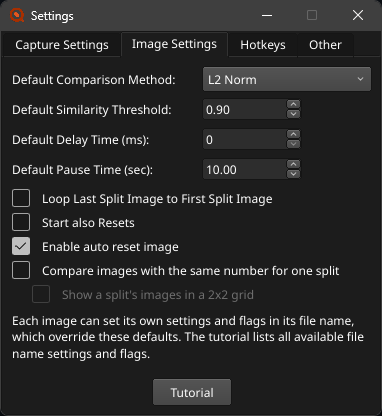
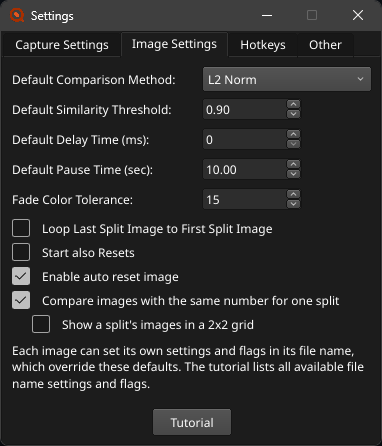
Document fade images and update the screenshots
- MANUAL: Fade images section, the {f} flag and ~ms~, Fade Color
  Tolerance, fade splits in the editor and the Live Tester, and
  the compare fade column
- Screenshots of fade splits and the Live Tester on a fade
- Retake the screenshots changed by monospace file names, the
  Compare list and the new setting

diff --git a/MANUAL.md b/MANUAL.md
@@ -8,6 +8,7 @@ Everything AutoSplit-rs does, to look things up. For setting it up the first tim
 - [Live Tester](#live-tester)
 - [Settings](#settings)
 - [Split image file names](#split-image-file-names)
+- [Fade images](#fade-images)
 - [Profiles](#profiles)
 - [Timers](#timers)
 - [Keyboard shortcuts](#keyboard-shortcuts)
@@ -72,7 +73,8 @@ The list shows each split's name over its file name, colored by what each part o
 ### Making the images
 
 - Grab saves the capture region for the selected split, with its mask, and selects the next split. The screenshot hotkey does the same while the window is open, so you can play through the category and press it at each split.
-- Use Screenshots... uses screenshot files instead, like the ones Take Screenshot saves. Pick one for the selected split, or several for the splits in order. Then press Save Selected or Save All.
+- On a [fade split](#fade-images), the button reads Grab* and saves the split image from the split's color instead of the capture, then selects the next split. It works without a capture device. The Capture Region is replaced by a note that the split needs no savestate or screen.
+- Use Screenshots... uses screenshot files instead, like the ones Take Screenshot saves. Pick one for the selected split, or several for the splits in order, skipping fade splits. Then press Save Selected or Save All. It's off while a fade split is selected.
 - Test opens the selected split's saved image in the [Live Tester](#live-tester).
 
 Saving asks before replacing split images, and before leaving older images of the same splits under other names, like after a threshold changed. Delete Old Images removes those, Keep Old Images keeps them. A green check mark over the Output Preview shows when images are saved. Screenshots that were in the split image folder move into its `base` folder, where they aren't read as split images.
@@ -81,7 +83,9 @@ The main window reads the split image folder again when Make Split Images closes
 
 ### Output Preview
 
-Until a split has an image, the Output Preview shows the capture with the split's mask, as Grab would save it. Click it, or the checkerboard button above it, to show what the mask removes as a checkerboard.
+Until a split has an image, the Output Preview shows the capture with the split's mask, as Grab would save it. Click it, or the checkerboard button above it, to show what the mask removes as a checkerboard. A fade split shows its color where its mask keeps the screen, or everywhere without a mask.
+
+![Make Split Images with a fade split selected: its color swatch in the split list, Grab* below the list, the Fade Split note in place of the Capture Region, and the Output Preview showing the color in the mask's shape](docs/make-split-images-fade.png)
 
 ### Generate Profile
 
@@ -117,7 +121,7 @@ Edit, next to the preset, edits it, and New starts a new preset for the same gam
   - A grayed-out name can't be inserted, like a fifth reset image. When you pick it, a red line above the buttons says why.
   - The window stays open. Saving the preset copies the masks and savestates of inserted splits into it.
 
-  ![Split Library: the ready-made splits listed on the left, with where the preset has them already, and EnterDeku picked on the right, its dummy and its split each with a screenshot, settings and file name, above Insert Above and Insert Below](docs/split-library.png)
+  ![Split Library: the ready-made splits listed on the left, with where the preset has them already, and KokiriSwordLeft picked on the right, its two images each with a screenshot, settings and file name, above Insert Above and Insert Below](docs/split-library.png)
 
 - Grabs and screenshots stay with their splits while you change them. Grab itself is hidden while editing, since a split's file name and mask aren't settled until the preset is saved.
 
@@ -126,12 +130,18 @@ Each split has:
 | Field | What it is |
 | --- | --- |
 | Type | Split, Start Image or Reset Image. Start and reset images are named `start_auto_splitter` and `reset`, so their name can't be changed. A preset can have up to 4 of each. |
-| Name | The part of the file name after the number. It can't contain `reset` or `start_auto_splitter`, or the characters `#@{}()[]^`, which file names use for settings. |
-| Mask | A PNG that's opaque where the screen is compared. |
+| Compare | Screenshot compares the screen with a grab or screenshot. Fade waits for the screen to fade to a color, see [Fade images](#fade-images). |
+| Name | The part of the file name after the number. It can't contain `reset` or `start_auto_splitter`, or the characters `#@{}()[]^~`, which file names use for settings. |
+| Color, Fade ms | For a fade split: the color the screen fades to, as a hex code like `#000000`, and about how long the fade takes in milliseconds. |
+| Mask | A PNG that's opaque where the screen is compared. A fade split doesn't need one, and Clear removes it. |
 | Threshold, Delay, Pause | Unticked, they use the profile's default and stay out of the file name. Changing a value ticks it. |
 | Dummy, Split below threshold | The `{d}` and `{b}` flags. |
 | Same split as the one above | Compares the split for the same split as the one above it, so either one matching splits. Up to 4 splits can be together. See [Several images for one split](#several-images-for-one-split). |
-| Savestate and instructions | For Copy Savestates and Savestate Instructions. |
+| Savestate and instructions | For Copy Savestates and Savestate Instructions. A fade split doesn't have them, since its image comes from its color. |
+
+Switching Compare to Fade ticks Threshold and sets it to 0.995, and switching back gives the split its old threshold, color and fade time again.
+
+![Make Split Images while editing a fade split: Compare set to Fade, the Color field with its swatch and Fade ms, the Mask with Clear, and the threshold at 0.995](docs/make-split-images-fade-editing.png)
 
 The Output Preview has two more buttons while editing:
 
@@ -173,6 +183,7 @@ The right side keeps the frames that would have made the image act in a run:
 - With `{b}`, it keeps the frame that reached the threshold, the frame that dropped back below it, and the frame after the delay if there is one.
 - A dummy image (`{d}`) acts right away, without its delay.
 - A reset image keeps the frame that reached the threshold.
+- A [fade image](#fade-images) keeps the frame where the fade reached the threshold. The line next to Start Over says when the screen reached the threshold without fading there, like after a cut, so you can tell a cut from a missed fade.
 
 `<` and `>` above the frames go through them. Start Over clears them and Highest. The tester takes one image at a time, so the images of a [grouped split](#several-images-for-one-split) are tested one by one.
 
@@ -195,7 +206,7 @@ File > Settings has four tabs.
 
 The defaults for split images whose file names don't set their own.
 
-![The Image Settings tab with the default comparison method, threshold, delay and pause, and the checkboxes below them](docs/settings-image.png)
+![The Image Settings tab with the default comparison method, threshold, delay and pause, the Fade Color Tolerance, and the checkboxes below them](docs/settings-image.png)
 
 | Setting | What it does |
 | --- | --- |
@@ -203,6 +214,7 @@ The defaults for split images whose file names don't set their own.
 | Default Similarity Threshold | The similarity an image has to reach to split. |
 | Default Delay Time | How long to wait after a match before splitting, in milliseconds. |
 | Default Pause Time | How long to stop comparing after a split, in seconds. It keeps two similar images in a row from splitting at once. |
+| Fade Color Tolerance | How far off, in levels out of 255, each color channel of the screen can be from a [fade image](#fade-images)'s color and still count as that color. 15 by default. Raise it if a capture shows the color a little off. |
 | Loop Last Split Image to First Split Image | After the last image splits, start over with the first. |
 | Start also Resets | When the start image matches, reset the timer first, then start it. |
 | Enable auto reset image | Use the reset image. The toggle auto reset image hotkey turns it on and off. |
@@ -243,12 +255,14 @@ A split image's file name can set its own values, which override the defaults fr
 | Times to split on this image in a row | between at signs | `@3@` |
 | Comparison method: 0 L2 Norm, 1 Histograms, 2 pHash | between carets | `^1^` |
 | Flags | between curly brackets | `{db}` |
+| Fade time, in milliseconds, for a fade image | between tildes | `~1000~` |
 
 Flags, several of which can go in one pair of brackets:
 
 - `{d}`: dummy split. When it matches, AutoSplit-rs moves on to the next image without splitting.
 - `{b}`: split when the similarity drops below the threshold, after it went above it.
 - `{p}`: press the pause hotkey instead of the split hotkey.
+- `{f}`: a [fade image](#fade-images), which splits when the screen fades to its color.
 
 Examples:
 
@@ -256,6 +270,7 @@ Examples:
 - `02_Boss_(0.9)_[10]_{d}.png`: the same, as a dummy split.
 - `03_Door_(0.85)_[20]_#3500#.png`: threshold 0.85, splits 3.5 seconds after matching, then pauses 20 seconds.
 - `04_Text_(0.9)_[10]_#3500#_@3@_{b}.png`: also splits 3 times in a row, each time when the similarity drops below 0.9.
+- `05_Credits_(0.995)_~1000~_{f}.png`: splits when the screen fades to the image's color over about a second.
 
 Values need their closing character, so `(0.9` sets nothing.
 
@@ -286,6 +301,27 @@ Some splits look different from run to run, like a boss that dies in one of two 
 - A folder can also have up to 4 start images and up to 4 reset images, like `reset.png` and `reset_2.png`. Without the setting, a folder with more than one is refused.
 - The similarity viewer gets a row for each image. With Show a split's images in a 2x2 grid, the current image area shows them all.
 
+## Fade images
+
+A fade image splits when the screen fades to a color, like the fade to black or white when you enter a loading zone. It splits on the frame the fade ends, and it doesn't split when the screen cuts to the color at once, like on a console reset, or when a scene is just dark.
+
+Make Split Images makes them from a preset's fade splits, with Grab*. By hand, give the image the `{f}` flag:
+
+- The image is one color wherever it isn't transparent, like a 1x1 PNG of the color. A screenshot of the faded screen rarely is, since captures are a little noisy, so it won't load.
+- Make the parts that don't fade transparent, like a [masked image](#masked-images). Only the rest has to reach the color.
+- `~ms~` says about how long the fade takes, 1000 ms without it. It can be 150 to 10000 ms, and fades up to twice as long still count. Time the fade from when the screen starts to change until it's fully the color.
+- Use the game's own color, not what your capture shows. Fade Color Tolerance in [Image Settings](#image-settings) lets each of red, green and blue be up to 15 levels off by default, for captures whose colors are a little off.
+- Fade images always compare by color, so `^N^` and the comparison method are ignored for them.
+- At least 3 comparisons have to fall within the fade, so a short fade with a low Comparison FPS Limit warns when the folder loads.
+
+The similarity is how close the screen is to the color, counting how even it is, so a dark scene with something lit in it stays below the threshold. Use a high threshold, 0.995 is a good start, so it splits on the first frame that's fully the color and not the one before. On a noisy capture, like an analog one, the screen never quite reaches 1: open the image in the [Live Tester](#live-tester), let the fade happen, and set the threshold about 0.002 below the similarity the faded screen settles at.
+
+If something stays on screen through the fade, like an area name or a lighter part at the top, mask it out.
+
+With `{b}`, a fade image splits when the color goes away after the fade, like when the next area shows. A fade image also works as a start or reset image.
+
+![The Live Tester with a fade image: the method cell shows the color, fade time and tolerance, and the frame where the fade reached the threshold is kept on the right](docs/live-tester-fade.gif)
+
 ## Profiles
 
 A profile (`.toml`) holds all the settings, including the capture region. File > Save Profile, Save Profile As and Load Profile save and open them. If there's exactly one `.toml` file next to the program, it's loaded at start. Profiles from Toufool's AutoSplit load as they are, and profiles saved here load there. Closing with unsaved changes asks whether to save them.
@@ -306,6 +342,7 @@ default_similarity_threshold = 0.95
 timer_connection = "livesplit_one"  # optional, see Timers
 group_split_images = true  # optional, see Several images for one split
 split_image_grid = true  # optional, shows those images in a 2x2 grid
+fade_color_tolerance = 20  # optional, see Fade images
 
 [capture_region]  # in pixels of the device's frames; `autosplit grab` shows their size
 x = 0
@@ -437,8 +474,9 @@ autosplit check settings.toml [--split-dir folder]
 # Similarity of a split image against a captured frame, with every method
 autosplit compare "split_(0.95).png" frame.png [--profile settings.toml]
 
-# The same for each frame in a folder of PNG frames, as CSV with a column per method
-autosplit compare "split_(0.95).png" frames/ --fps 60 > similarity.csv
+# The same for each frame in a folder of PNG frames, as CSV with a column per method,
+# and for a fade image a fade column with its similarity to the color
+autosplit compare "split_(0.95).png" frames/ --fps 60 [--profile settings.toml] > similarity.csv
 
 # Run the split logic over a folder of recorded PNG frames
 autosplit replay settings.toml frames/ --fps 60 [--auto-controlled]

diff --git a/DEVELOPMENT.md b/DEVELOPMENT.md
@@ -38,6 +38,7 @@ The workspace has four crates:
 | --- | --- |
 | The split state machine | `autosplit-core/src/runner.rs` |
 | The Live Tester's decisions | `autosplit-core/src/tester.rs` |
+| Fade images: the similarity to a color and telling a fade from a cut | `autosplit-core/src/fade.rs` |
 | Presets and their masks | `autosplit-core/src/preset.rs`, `mask.rs`, `filename.rs` |
 | Writing the split library | `autosplit-core/src/library.rs` |
 | A running session | `autosplit-cli/src/session.rs`, fed by `device.rs` (capture), `hotkeys.rs`, `livesplit.rs`, `livesplit_one.rs` and `molok.rs` |
@@ -103,9 +104,9 @@ Debug builds (`cargo run`) can write the library, so you don't have to write `sp
 2. Select the first split and click **Add to Library...**. For a ready-made split of several images, raise **Images** to take the splits after it too.
 3. Write a description and save.
 
-This copies the masks and savestates into the game's library folder, which is made if the game has none yet. It writes each base image at 64x48 from the split's grab or screenshot, or else from the live capture. To use another screenshot instead, click **Picture...** beside that image.
+This copies the masks and savestates into the game's library folder, which is made if the game has none yet. It writes each base image at 64x48 from the split's grab or screenshot, or else from the live capture. To use another screenshot instead, click **Picture...** beside that image. Each image's name can be changed in the field above its file name, like a generic `FastBlackFade` for a split made from the preset's `ExitKokiriShop`. The preset keeps its own names.
 
-In the Split Library window, **Edit...** changes an entry's description. With **Replace** ticked, it also takes the entry's images and settings from the selected splits again, so you can insert an entry, tune it in the editor, and save it back. **Picture...** in the Edit window replaces just that image's base image, leaving the rest as it is. **Delete...** removes an entry.
+In the Split Library window, **Edit...** changes an entry's description and its images' names. A renamed image's mask and base image are renamed with it, unless another entry uses the same mask. With **Replace** ticked, it also takes the entry's images and settings from the selected splits again, so you can insert an entry, tune it in the editor, and save it back. **Picture...** in the Edit window replaces just that image's base image, leaving the rest as it is. **Delete...** removes an entry.
 
 How the writes protect the library:
 

diff --git a/COMPATIBILITY.md b/COMPATIBILITY.md
@@ -31,6 +31,7 @@ Toufool's AutoSplit has none of these:
 - macOS, with AVFoundation for capture devices. Shortcuts follow its other apps: Cmd+M minimizes and Cmd+W closes any window, so Make Split Images is Cmd+Shift+M and Help is Cmd+?. Help > About is called Licenses and Links there, since the app menu has its own About. The Capture Region picture redraws at most 30 times a second, since each preview frame redraws the whole window there. Comparisons aren't affected.
 - Two more timer connections besides hotkeys and LiveSplit: LiveSplit One over a WebSocket, and Molok through POSIX signals on Linux. The settings window has a fourth tab, Other, to pick one and set the LiveSplit One port. It's disabled when LiveSplit started AutoSplit-rs.
 - Up to 4 split images compared for one split, grouped by their number, and up to 4 start and reset images, off by default. A 2x2 grid can show a split's images.
+- Fade images, with the `{f}` flag and an optional `~ms~` fade time, which split when the screen fades to a color and not when it cuts to it. A Fade Color Tolerance setting covers captures whose colors are a little off, and the profile only saves it when it isn't the default. See [Fade images](MANUAL.md#fade-images).
 - The Live Tester, which compares one split image with the capture outside of a run. It replaces AutoMask's tester.
 - Make Split Images, which applies a preset's masks to the capture or to screenshots and saves the split images, with savestates to copy for a practice tool. It replaces AutoMask, and its preset editor replaces AutoMask's, with a split library of ready-made splits to insert, including ones that take several images in a row.
 - Commands that work without the window: `devices`, `grab`, `run`, `check`, `compare`, `replay` and `bench`. See [Command line](MANUAL.md#command-line).

diff --git a/README.md b/README.md
@@ -10,6 +10,7 @@ A Rust rewrite of [AutoSplit](https://github.com/Toufool/AutoSplit), the image c
 - Runs on Windows, Linux and macOS 11 or newer.
 - Captures from capture cards, webcams and OBS Virtual Camera. To split on a window or the screen, show it in OBS and use OBS Virtual Camera.
 - Makes split images for you: pick your category's preset in Make Split Images, play through it and grab each split, and the masked, named split images are saved into your folder. A preset editor and a Live Tester, for checking an image against the capture, are built in too.
+- Splits on fades to a color, like a fade to black between areas, without splitting on a cut to black like a console reset.
 - Controls LiveSplit through its AutoSplit Integration component, LiveSplit One over a local connection, Molok through signals on Linux, or any timer through hotkeys.
 - Uses little CPU, so it can run next to OBS on a weak machine. Most comparisons take well under a millisecond, see [PERFORMANCE.md](PERFORMANCE.md).
 

diff --git a/TUTORIAL.md b/TUTORIAL.md
@@ -98,6 +98,8 @@ AutoSplit-rs comes with presets for some categories: a list of the category's sp
 
 If a grab didn't come out right, select that split and grab it again.
 
+Some splits are fade splits, which split when the screen fades to a color, like the fade to black when you leave an area. Their image is made from the color, not the capture, so when one is selected the button reads Grab*. Click it, or press the screenshot hotkey, to save it and move on, wherever you are in the game. They need no savestate.
+
 ### Savestates
 
 Some presets come with savestates for a practice tool on the console, like gz for Ocarina of Time, so you can jump to each split's screen instead of playing the whole run. Click Copy Savestates, paste them where the practice tool loads them from, like its folder on the SD card, and load each one when you grab its split. Savestate Instructions says what to do with the savestates that need more than loading, and highlights the split you're on.
